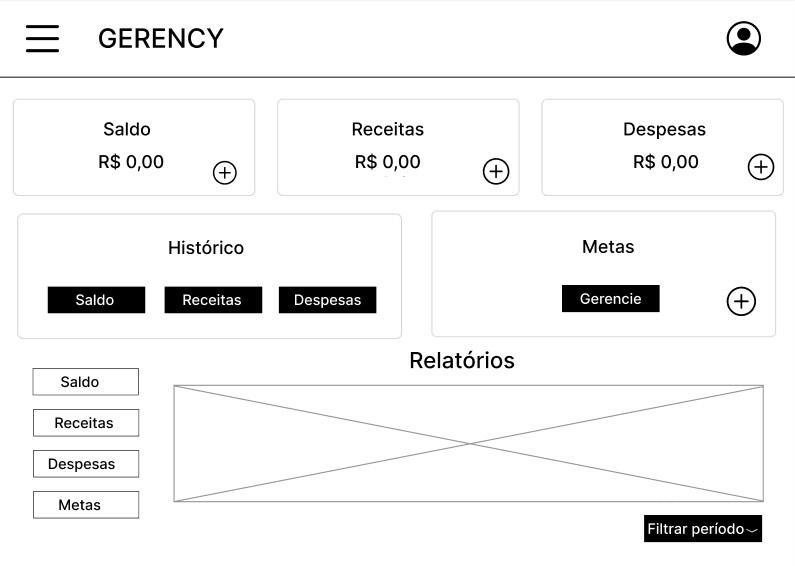
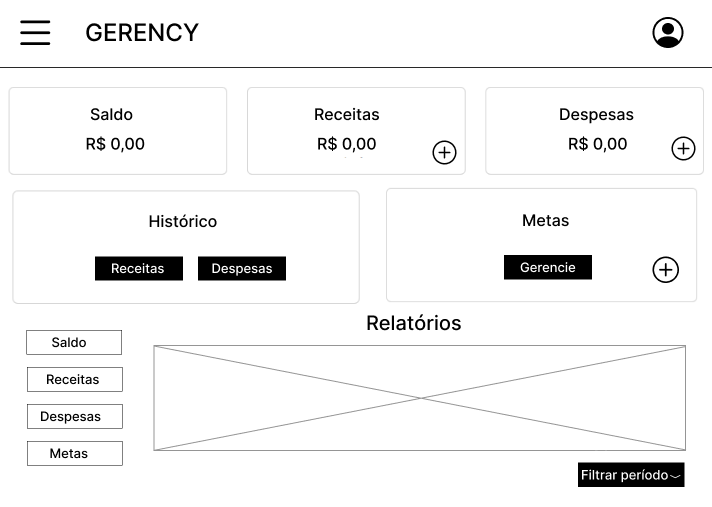
interface atualizada

diff --git a/docs/interface.md b/docs/interface.md
@@ -6,10 +6,10 @@ A visão geral da interação do usuário pelas telas do sistema e do protótipo
 1. **Página Inicial (Home)**:
    - Na tela inicial, o usuário encontra um menu hamburguer que oferece as opções principais: Home, Histórico e Metas.
    - Os lançamentos são exibidos de forma organizada, permitindo que o usuário interaja diretamente com eles na página inicial.
-   - Um botão de adição (+) possibilita ao usuário adicionar novos lançamentos, abrindo um modal para editar saldo, receitas, despesas ou metas de forma intuitiva.
+   - Um botão de adição (+) possibilita ao usuário adicionar novos lançamentos, abrindo um modal para adcionar receitas, despesas ou metas de forma intuitiva.
 
-2. **Modal de Edição**:
-   - O modal de edição permite ao usuário realizar alterações nos detalhes dos lançamentos de forma clara e eficiente.
+2. **Modal de Adição**:
+   - O modal de adição permite ao usuário realizar lançamentos de forma clara e eficiente.
 
 3. **Página de Histórico**:
    - O acesso à tela de histórico pode ser feito através do menu ou de um botão específico na página inicial.
@@ -32,7 +32,7 @@ A plataforma foi elaborada de forma a atender aos requisitos funcionais, garanti
 
 
 No wireframe, há um menu hamburguer que permite ao usuário navegar entre diferentes páginas, como home, histórico e metas. 
-Na página inicial do Gerency, os lançamentos são exibidos, possibilitando a interação do cliente com eles. Ao clicar no botão de adição (+), um modal é aberto para que o usuário edite os detalhes de saldo, receitas, despesas ou metas. 
+Na página inicial do Gerency, os lançamentos são exibidos, possibilitando a interação do cliente com eles. Ao clicar no botão de adição (+), um modal é aberto para que o usuário edite os detalhes de receitas, despesas ou metas. 
 Além disso, o cliente pode acessar a tela de histórico por meio dos botões dentro do card "Histórico". 
 Os relatórios são personalizados conforme o período e os lançamentos do usuário, apresentando um resumo de suas escolhas de filtro e atualizações em seu perfil.
 
@@ -42,11 +42,11 @@ Os wireframes podem ser especificados da seguinte forma:
 
     - Incluir um menu hamburguer com as opções: Home, Histórico e Metas.
     - Na tela inicial, exibir os lançamentos de forma organizada, permitindo interação com eles.
-    - Adicionar um botão de adição (+) para abrir um modal com opções para editar saldo, receitas, despesas ou metas.
+    - Adicionar um botão de adição (+) para abrir um modal com opções para adicionar receitas, despesas ou metas.
 
-**Modal de Edição:**
+**Modal de Adição:**
 
-    - Criar um modal que permita ao usuário editar os detalhes mencionados (saldo, receitas, despesas ou metas).
+    - Criar um modal que permita ao usuário adicionar os detalhes mencionados (receitas, despesas ou metas).
 
 **Página de Histórico:**
 
@@ -73,14 +73,23 @@ Os wireframes podem ser especificados da seguinte forma:
 ![Exemplo de Tela do menu](https://raw.githubusercontent.com/ICEI-PUC-Minas-PMV-SI/pmv-si-2024-1-pe1-t6-si_t6_app_web_1osem2024_gp01/main/docs/img/Menu.jpg)
 
 
+**Modal de adição:**
+
+![Exemplo de Tela de nova meta](https://raw.githubusercontent.com/ICEI-PUC-Minas-PMV-SI/pmv-si-2024-1-pe1-t6-si_t6_app_web_1osem2024_gp01/main/docs/img/NovaMeta.jpg)
+
+
 **Tela do historico:**
 
 ![Exemplo de Tela do historico](https://raw.githubusercontent.com/ICEI-PUC-Minas-PMV-SI/pmv-si-2024-1-pe1-t6-si_t6_app_web_1osem2024_gp01/main/docs/img/Historico.jpg)
 
 
-**Tela de nova meta:**
+**Tela de Metas:**
 
-![Exemplo de Tela de nova meta](https://raw.githubusercontent.com/ICEI-PUC-Minas-PMV-SI/pmv-si-2024-1-pe1-t6-si_t6_app_web_1osem2024_gp01/main/docs/img/NovaMeta.jpg)
+![Exemplo de Tela de nova meta](https://raw.githubusercontent.com/ICEI-PUC-Minas-PMV-SI/pmv-si-2024-1-pe1-t6-si_t6_app_web_1osem2024_gp01/main/docs/img/Metas.jpg)
+
+**Modal Visualizar Meta:**
+
+![Exemplo de Tela de nova meta](https://raw.githubusercontent.com/ICEI-PUC-Minas-PMV-SI/pmv-si-2024-1-pe1-t6-si_t6_app_web_1osem2024_gp01/main/docs/img/VisualizarMeta.jpg)
 
 
 
